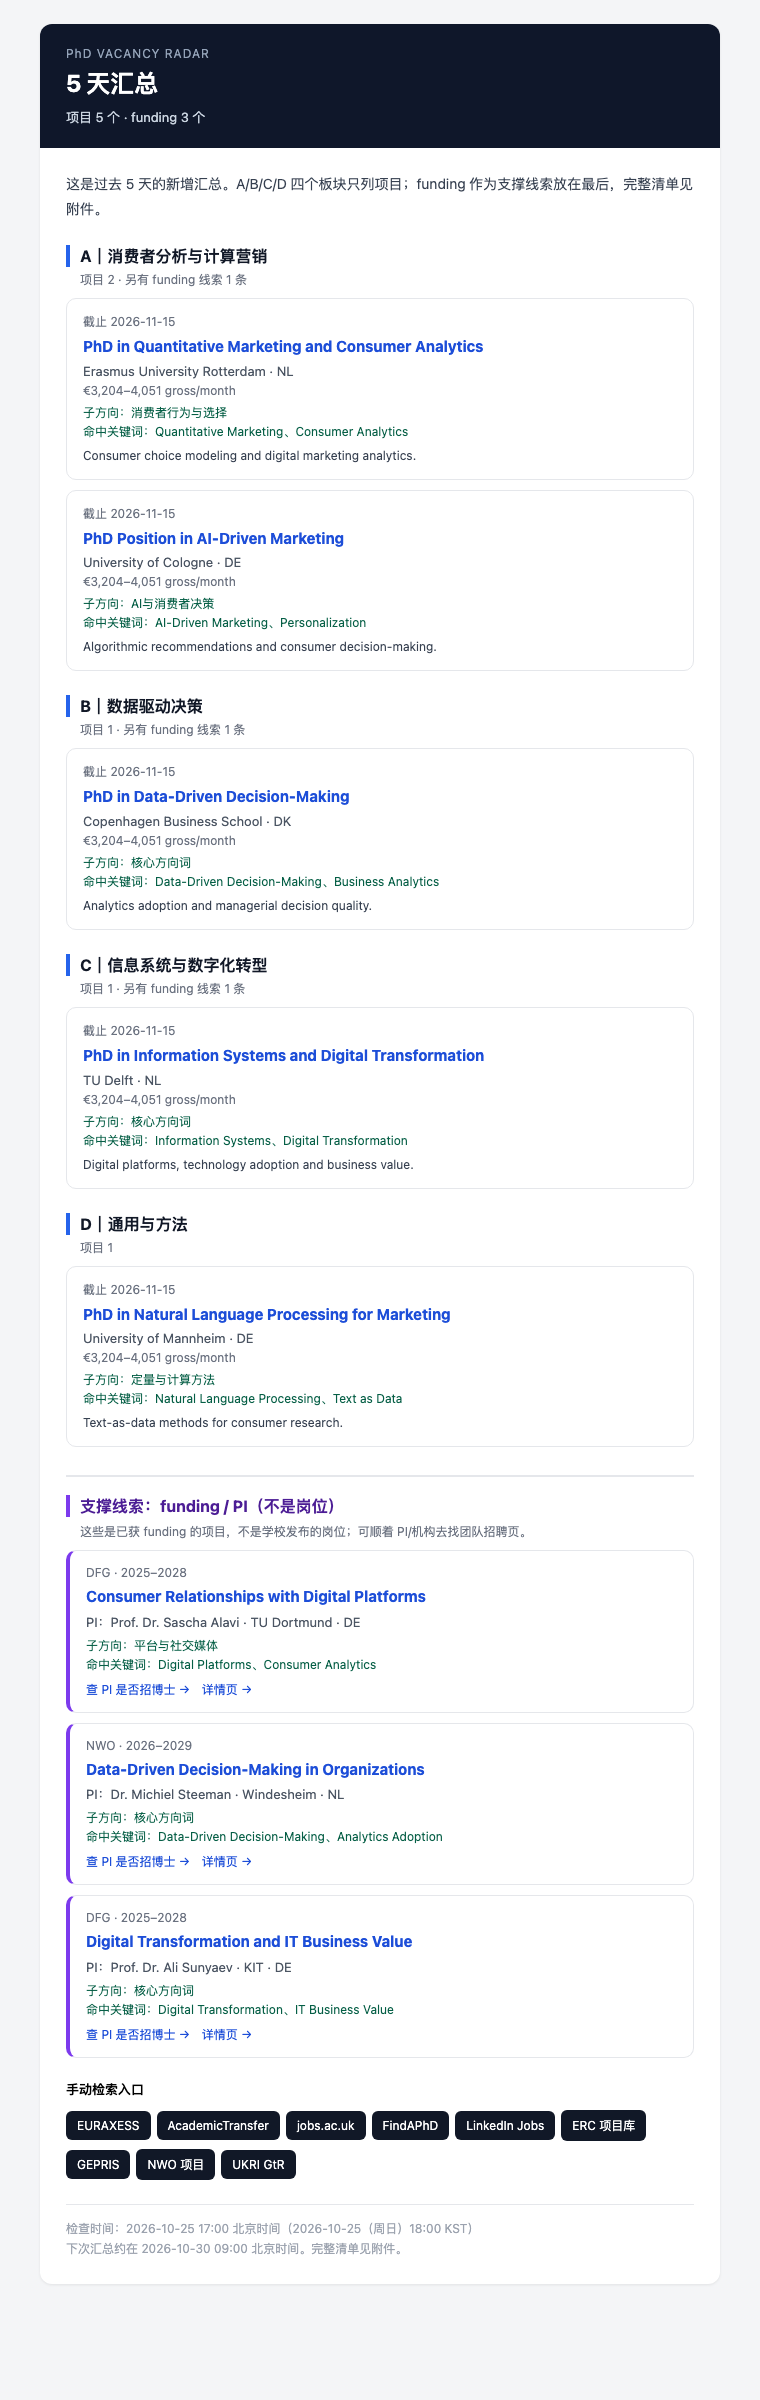
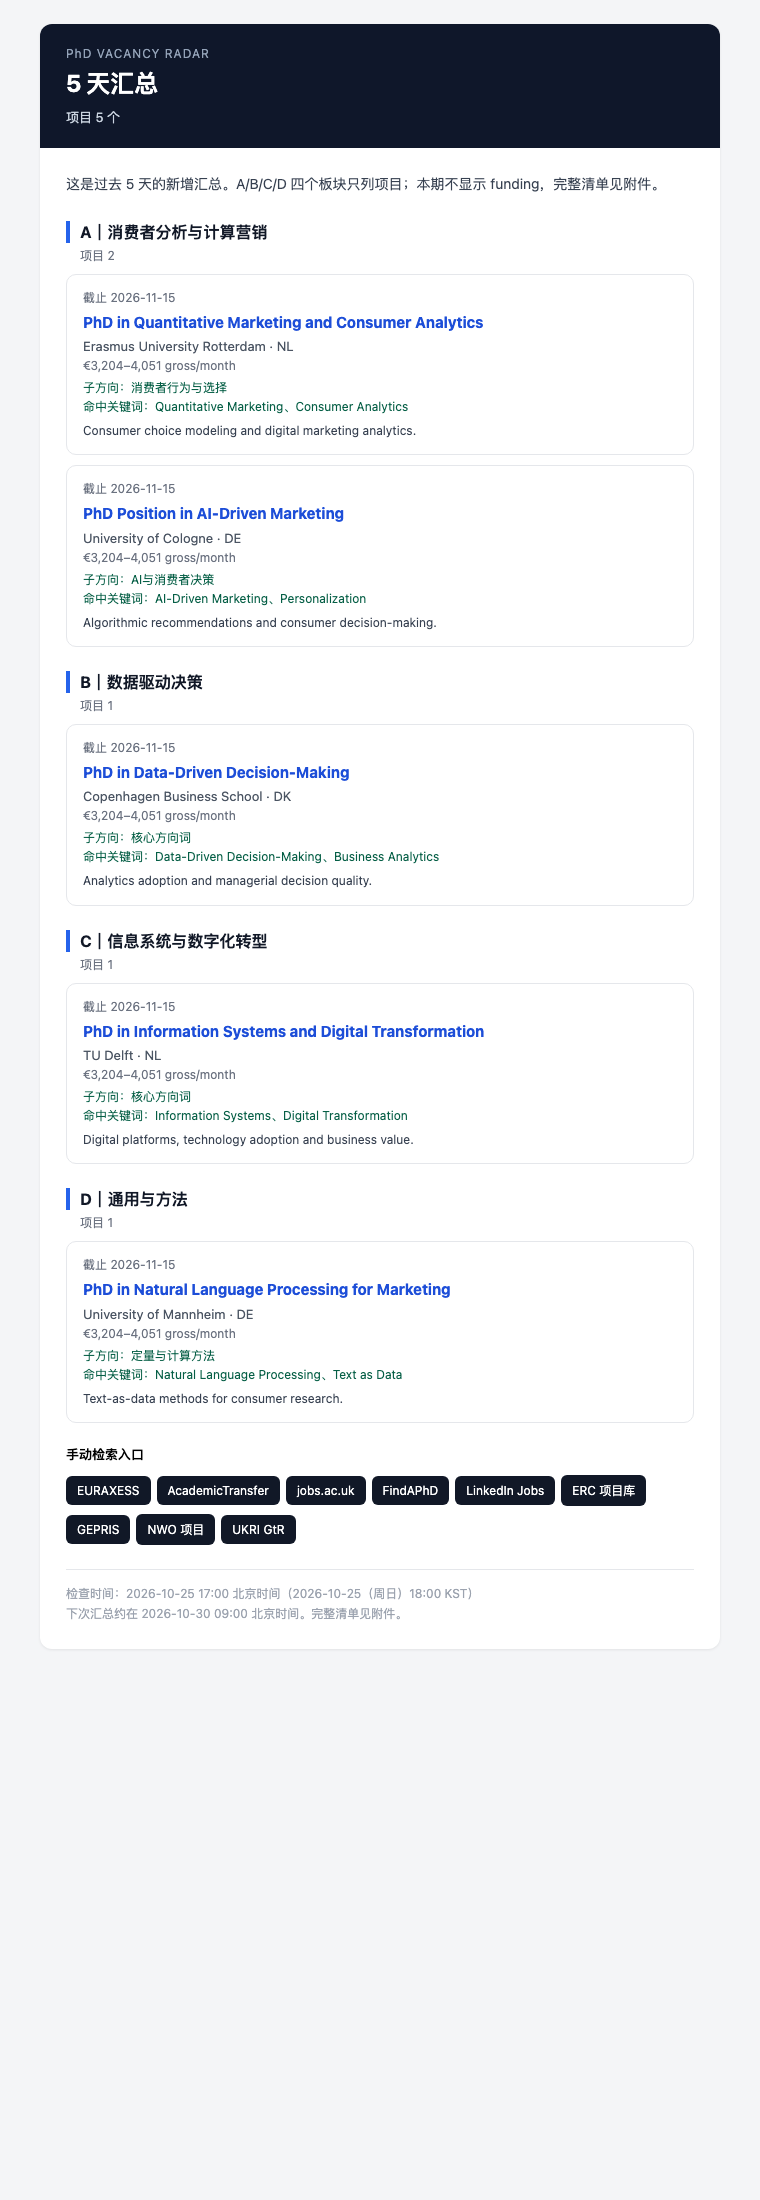
feat: projects-only mode, unlimited project count, hide funding

Changed region(s): [[0.0605, 0.0, 0.9382, 0.9582], [0.4237, 0.9273, 0.5145, 0.9582], [0.4237, 0.8036, 0.4842, 0.8345]]

diff --git a/phd_radar/report.py b/phd_radar/report.py
@@ -52,8 +52,10 @@ def _groups(cfg: Config, positions: list[Position], awards: list[Award]):
     return [(s, *grouped[s.key]) for s in sections]
 
 
-def _count_text(positions: list[Position], awards: list[Award]) -> str:
-    return f"项目 {len(positions)} 个 · funding {len(awards)} 个"
+def _count_text(cfg: Config, positions: list[Position], awards: list[Award]) -> str:
+    if cfg.monitor.show_funding:
+        return f"项目 {len(positions)} 个 · funding {len(awards)} 个"
+    return f"项目 {len(positions)} 个"
 
 
 def render_test(cfg: Config, now: datetime) -> tuple[str, str, str]:
@@ -90,7 +92,7 @@ def render_alert(cfg: Config, positions: list[Position], awards: list[Award], no
     html = _wrap(
         cfg,
         title="发现新项目 / funding",
-        subtitle=_count_text(positions, awards),
+        subtitle=_count_text(cfg, positions, awards),
         intro="下面按 A/B/C/D 四个板块整理；点标题即可跳转原始页面。",
         positions=positions,
         awards=awards,
@@ -112,19 +114,28 @@ def render_digest(
 ) -> tuple[str, str, str]:
     total = len(positions) + len(awards)
     if startup:
-        subject = f"[PhD Radar] 监控已启动（基线：{len(positions)} 个项目 / {len(awards)} 个 funding）"
+        subject = (
+            f"[PhD Radar] 监控已启动（基线：{len(positions)} 个项目 / {len(awards)} 个 funding）"
+            if cfg.monitor.show_funding
+            else f"[PhD Radar] 监控已启动（基线：{len(positions)} 个项目）"
+        )
         intro = (
-            "监控已经跑起来了。我已经把当前项目和 funding 做了基线记录；"
-            "之后只要有新项目，会立刻单独发邮件；每 5 天再发一次汇总。"
+            "监控已经跑起来了。我已经把当前项目做了基线记录；"
+            + ("同时也记录了 funding 支撑线索；" if cfg.monitor.show_funding else "")
+            + "之后只要有新项目，会立刻单独发邮件；每 5 天再发一次汇总。"
         )
     elif total == 0:
         subject = "[PhD Radar] 本期无新增（监控正常）"
         intro = "过去 5 天没有发现新的匹配项目或 funding。监控仍在正常运行。"
     else:
-        subject = f"[PhD Radar] 5 天汇总：{len(positions)} 个新项目，{len(awards)} 个新 funding"
+        subject = (
+            f"[PhD Radar] 5 天汇总：{len(positions)} 个新项目，{len(awards)} 个新 funding"
+            if cfg.monitor.show_funding
+            else f"[PhD Radar] 5 天汇总：{len(positions)} 个新项目"
+        )
         intro = (
             "这是过去 5 天的新增汇总。A/B/C/D 四个板块只列项目；"
-            "funding 作为支撑线索放在最后，完整清单见附件。"
+            + ("funding 作为支撑线索放在最后，完整清单见附件。" if cfg.monitor.show_funding else "本期不显示 funding，完整清单见附件。")
         )
 
     next_at = _next_digest(cfg, now)
@@ -147,7 +158,7 @@ def render_digest(
     html = _wrap(
         cfg,
         title="5 天汇总" if not startup else "监控已启动",
-        subtitle=_count_text(positions, awards),
+        subtitle=_count_text(cfg, positions, awards),
         intro=intro,
         positions=positions,
         awards=awards,
@@ -203,11 +214,11 @@ def _section_text(
             if len(sec_positions) > detail_limit:
                 for pos in sec_positions[detail_limit:]:
                     lines.append(f"- {pos.title}｜{pos.institution} · {pos.country}｜{pos.url}")
-        if sec_awards:
+        if sec_awards and cfg.monitor.show_funding:
             lines.append(f"  另有 {len(sec_awards)} 条相关 funding 线索，见下方「支撑线索」/附件。")
         lines.append("")
 
-    if awards:
+    if awards and cfg.monitor.show_funding:
         lines.append("【支撑线索：funding / PI（不是岗位，供找导师参考）】")
         for award in awards[: cfg.monitor.funding_display_limit]:
             lines.extend(_award_text(award))
@@ -298,7 +309,7 @@ def _wrap(
 
 
 def _funding_block(cfg: Config, awards: list[Award]) -> str:
-    if not awards:
+    if not awards or not cfg.monitor.show_funding:
         return ""
     limit = cfg.monitor.funding_display_limit
     cards = "".join(_award_card(a) for a in awards[:limit])
@@ -444,9 +455,10 @@ def _ordered_rows(cfg: Config, positions: list[Position], awards: list[Award]):
     for section, sec_positions, _ in groups:
         for pos in sec_positions:
             rows.append(("position", section, pos))
-    for section, _, sec_awards in groups:
-        for award in sec_awards:
-            rows.append(("award", section, award))
+    if cfg.monitor.show_funding:
+        for section, _, sec_awards in groups:
+            for award in sec_awards:
+                rows.append(("award", section, award))
     return rows
 
 

diff --git a/phd_radar/run.py b/phd_radar/run.py
@@ -27,6 +27,9 @@ def collect(cfg: Config) -> Batch:
     for source_cfg in cfg.sources:
         if not source_cfg.enabled:
             continue
+        if not cfg.monitor.show_funding and source_cfg.type in {"gepris", "nwo", "ukri"}:
+            log.info("skip funding source %s (show_funding=false)", source_cfg.name)
+            continue
         try:
             source = build_source(source_cfg, fetcher, cfg.profile)
             result = source.collect()
@@ -160,8 +163,8 @@ def run(args: argparse.Namespace) -> int:
     if is_new or not state.first_run_done:
         state.first_run_done = True
         if cfg.monitor.startup_email:
-            top_positions = [p for p in positions if p.score > 0][: cfg.monitor.max_items_per_email]
-            top_awards = [a for a in awards if a.score > 0][: cfg.monitor.max_items_per_email]
+            top_positions = [p for p in positions if p.score > 0]
+            top_awards = [a for a in awards if a.score > 0] if cfg.monitor.show_funding else []
             subject, text, html = render_digest(cfg, top_positions, top_awards, state, now, startup=True)
             if args.dry_run:
                 _preview(subject, text)
@@ -184,7 +187,7 @@ def run(args: argparse.Namespace) -> int:
 
     # 立即告警：新项目 / 新 funding 达到阈值
     # 直招优先：即时告警只发学校/招聘页的项目，funding 只进 5 天汇总。
-    alert_positions = [p for p in new_positions if p.score >= cfg.monitor.alert_score][: cfg.monitor.max_items_per_email]
+    alert_positions = [p for p in new_positions if p.score >= cfg.monitor.alert_score]
     alert_awards: list = []
 
     digest_due = _digest_due(cfg, state, now) or args.mode == "digest"
@@ -212,10 +215,12 @@ def run(args: argparse.Namespace) -> int:
         # 不再因为「已提醒」而排除；上限只用于防止极端刷屏。
         digest_positions = [
             p for p in positions if (state.first_seen("position", p.id) or now) >= since
-        ][: cfg.monitor.digest_max_items]
-        digest_awards = [
-            a for a in awards if (state.first_seen("award", a.id) or now) >= since
-        ][: cfg.monitor.digest_max_items]
+        ]
+        digest_awards = (
+            [a for a in awards if (state.first_seen("award", a.id) or now) >= since]
+            if cfg.monitor.show_funding
+            else []
+        )
 
         subject, text, html = render_digest(cfg, digest_positions, digest_awards, state, now)
         if args.dry_run:

diff --git a/phd_radar/config.py b/phd_radar/config.py
@@ -49,6 +49,7 @@ class Monitor:
     digest_attachment: str = "csv"  # csv | html | both | none
     funding_per_section_limit: int = 3
     funding_display_limit: int = 10
+    show_funding: bool = False
     startup_email: bool = True
     state_file: str = "state.json"
     failure_alert_after_hours: int = 12
@@ -151,6 +152,7 @@ def load_config(path: str | Path = "config.toml") -> Config:
         digest_attachment=str(monitor_raw.get("digest_attachment", "csv")).lower(),
         funding_per_section_limit=int(monitor_raw.get("funding_per_section_limit", 3)),
         funding_display_limit=int(monitor_raw.get("funding_display_limit", 10)),
+        show_funding=bool(monitor_raw.get("show_funding", False)),
         startup_email=bool(monitor_raw.get("startup_email", True)),
         state_file=str(monitor_raw.get("state_file", "state.json")),
         failure_alert_after_hours=int(monitor_raw.get("failure_alert_after_hours", 12)),

diff --git a/tests/test_attachments.py b/tests/test_attachments.py
@@ -31,6 +31,7 @@ class AttachmentTests(unittest.TestCase):
     def test_csv_has_bom_and_rows(self):
         positions, awards = sample_data()
         cfg = load_config("config.toml")
+        cfg.monitor.show_funding = True
         data = build_csv(cfg, positions, awards)
         self.assertTrue(data.startswith(b"\xef\xbb\xbf"))
         rows = list(csv.reader(io.StringIO(data.decode("utf-8-sig"))))
